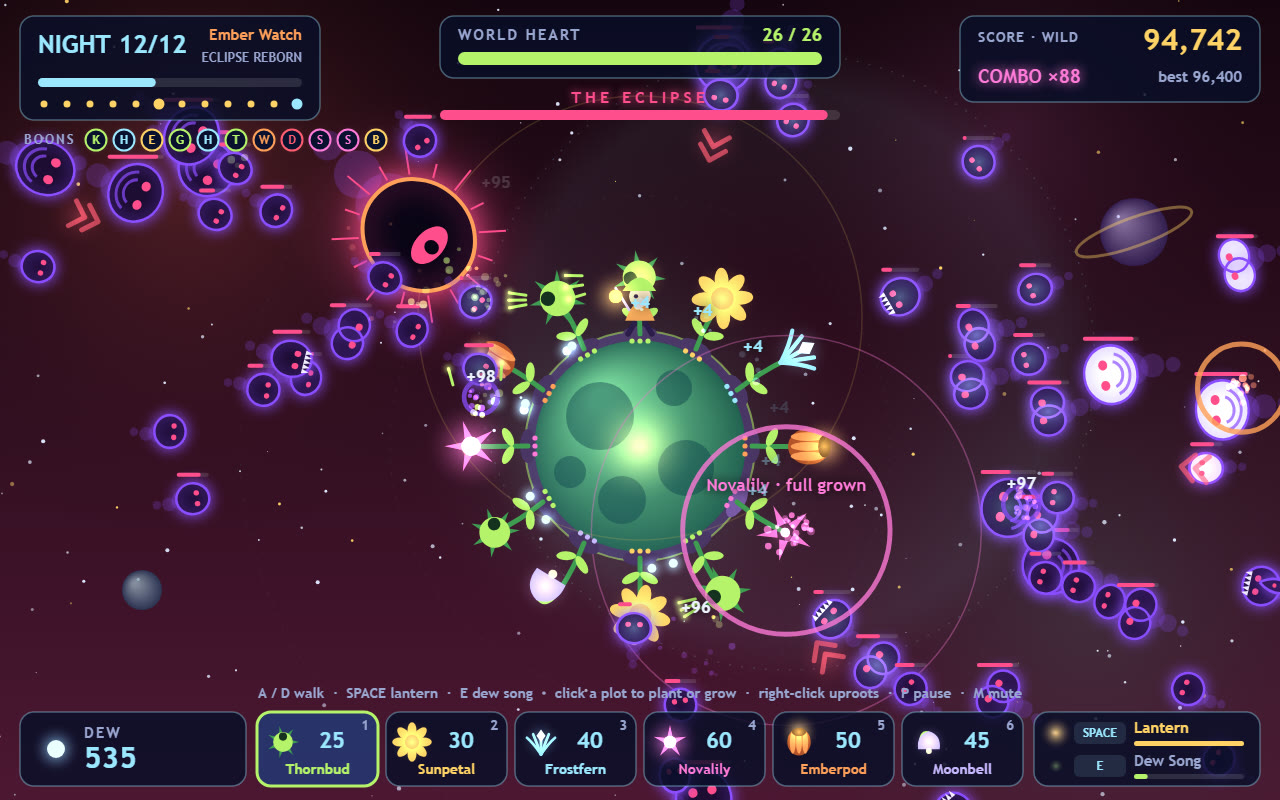
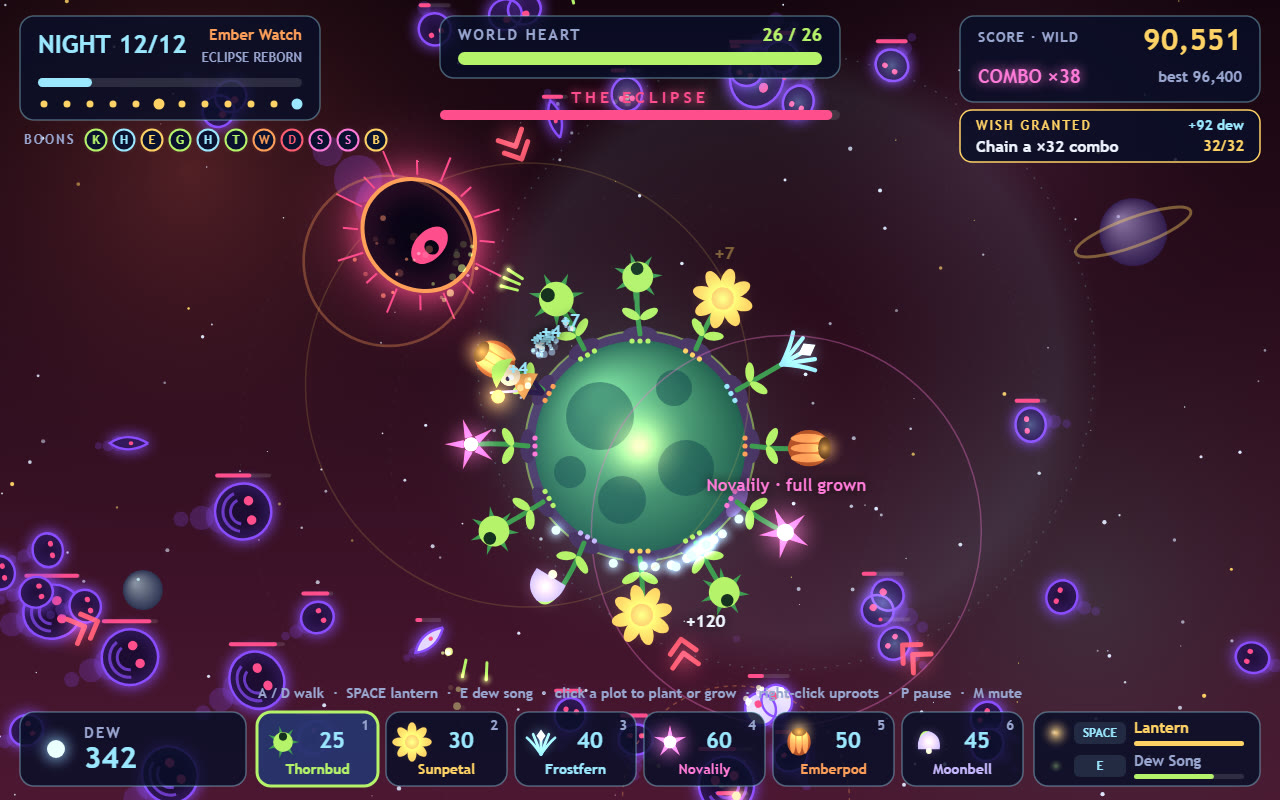
Nightly wishes, larger start and restart prompts, clearer cover, Frost Watch boon screen

diff --git a/game/src/render/screens.js b/game/src/render/screens.js
@@ -8,7 +8,7 @@ import { glowDot, panel, paragraph, write } from './brush.js';
 import { drawSeedIcon } from './garden.js';
 
 const MIDDLE = VIEW.width / 2;
-const BOON_CARD = { width: 300, height: 290, gap: 36, y: 262 };
+const BOON_CARD = { width: 320, height: 290, gap: 30, y: 262 };
 
 function veil(ctx, strength) {
   ctx.fillStyle = `rgba(5, 7, 24, ${strength})`;
@@ -68,11 +68,12 @@ export function drawTitle(ctx, game) {
     write(ctx, seed.blurb, 950, y + 12, { size: 14, color: COLORS.ink });
   });
 
-  const pulse = 0.85 + 0.15 * Math.sin(game.time * 4);
-  panel(ctx, MIDDLE - 250, 684, 500, 58, { fill: 'rgba(54, 40, 12, 0.94)', edge: COLORS.gold, radius: 29, line: 2.5 });
-  write(ctx, 'CLICK or press ENTER to begin', MIDDLE, 714, { size: 26, weight: 800, align: 'center', color: COLORS.gold, alpha: pulse, glow: COLORS.gold });
+  // The start prompt is drawn big enough to read even when the screen is shown small.
+  const pulse = 0.88 + 0.12 * Math.sin(game.time * 4);
+  panel(ctx, MIDDLE - 350, 664, 700, 88, { fill: 'rgba(54, 40, 12, 0.96)', edge: COLORS.gold, radius: 44, line: 4 });
+  write(ctx, 'PRESS ENTER TO START', MIDDLE, 710, { size: 52, weight: 800, align: 'center', color: COLORS.gold, alpha: pulse, glow: COLORS.gold, spacing: 3 });
   const best = game.best > 0 ? `   ·   best garden ${game.best.toLocaleString('en-US')}` : '';
-  write(ctx, `${game.difficulty.name}: ${game.difficulty.lore}   ·   ← → or click to change${best}`, MIDDLE, 768, { size: 16, align: 'center', color: COLORS.dim });
+  write(ctx, `or click anywhere   ·   ${game.difficulty.name}: ${game.difficulty.lore}   ·   ← → change${best}`, MIDDLE, 776, { size: 16, align: 'center', color: COLORS.dim });
 }
 
 // The three difficulty pills on the title screen, as clickable boxes.
@@ -91,8 +92,9 @@ export function boonCardRects() {
 
 export function drawBoonChoice(ctx, game, pointer) {
   veil(ctx, 0.62);
-  write(ctx, `NIGHT ${game.night} SURVIVED`, MIDDLE, 118, { size: 54, weight: 800, align: 'center', color: COLORS.gold, spacing: 6, glow: 'rgba(255, 209, 102, 0.7)' });
-  write(ctx, `+${game.night * 100} points  ·  the garden offers a boon — choose one`, MIDDLE, 178, { size: 24, align: 'center', color: COLORS.ink });
+  write(ctx, `NIGHT ${game.night} SURVIVED`, MIDDLE, 104, { size: 72, weight: 800, align: 'center', color: COLORS.gold, spacing: 6, glow: 'rgba(255, 209, 102, 0.7)' });
+  write(ctx, 'CHOOSE A BOON', MIDDLE, 176, { size: 44, weight: 800, align: 'center', color: COLORS.ink, spacing: 8 });
+  write(ctx, `+${Math.round(game.night * 100 * game.difficulty.score)} points for the night  ·  the garden offers three gifts, keep one`, MIDDLE, 226, { size: 19, align: 'center', color: COLORS.dim });
   for (const card of boonCardRects()) {
     const boon = game.boonChoices[card.index];
     if (!boon) continue;
@@ -107,8 +109,8 @@ export function drawBoonChoice(ctx, game, pointer) {
     ctx.arc(cx, top + 84, 30, 0, Math.PI * 2);
     ctx.fill();
     write(ctx, String(card.index + 1), cx, top + 86, { size: 32, weight: 800, align: 'center', color: tint });
-    write(ctx, boon.name, cx, top + 166, { size: 28, weight: 800, align: 'center', color: tint });
-    paragraph(ctx, boon.text, cx, top + 212, card.width - 48, { size: 19, color: COLORS.ink });
+    write(ctx, boon.name, cx, top + 164, { size: 34, weight: 800, align: 'center', color: tint });
+    paragraph(ctx, boon.text, cx, top + 212, card.width - 44, { size: 20, color: COLORS.ink });
   }
   write(ctx, 'Click a card, or press 1, 2 or 3', MIDDLE, 584, { size: 20, weight: 700, align: 'center', color: COLORS.dim });
   drawNightPath(ctx, game);
@@ -167,7 +169,7 @@ export function drawResults(ctx, game) {
   write(ctx, won ? `You held back the Gloam for all ${NIGHTS} nights. The garden lives!` : `The Gloam reached the world heart on night ${game.night} of ${NIGHTS}.`, MIDDLE, 178, { size: 24, align: 'center', color: COLORS.ink });
 
   panel(ctx, MIDDLE - 330, 222, 660, 372, { radius: 22, edge: tint, line: 2.5 });
-  write(ctx, 'FINAL SCORE', MIDDLE, 258, { size: 18, weight: 700, align: 'center', color: COLORS.dim, spacing: 4 });
+  write(ctx, 'FINAL SCORE', MIDDLE, 256, { size: 24, weight: 800, align: 'center', color: COLORS.dim, spacing: 5 });
   write(ctx, game.score.toLocaleString('en-US'), MIDDLE, 314, { size: 78, weight: 800, align: 'center', color: COLORS.gold, glow: 'rgba(255, 209, 102, 0.6)' });
   write(ctx, game.newBest ? '★ NEW BEST ★' : `best ${game.best.toLocaleString('en-US')}`, MIDDLE, 370, { size: 20, weight: 800, align: 'center', color: game.newBest ? COLORS.nova : COLORS.dim, spacing: 2 });
   write(ctx, `Rank: ${gardenerRank(game)}`, MIDDLE, 408, { size: 24, weight: 800, align: 'center', color: COLORS.leaf });
@@ -177,7 +179,7 @@ export function drawResults(ctx, game) {
     ['Gloam banished', String(game.stats.kills)],
     ['Seeds planted', String(game.stats.planted)],
     ['Dew gathered', String(game.stats.dewGathered)],
-    ['Boons taken', String(game.boons.taken.length)],
+    ['Boons · wishes', `${game.boons.taken.length} · ${game.stats.wishes}`],
     ['World heart', `${Math.ceil(game.health)} / ${game.maxHealth}`],
     ['Watch reached', watchOf(game.night).name],
     ['Difficulty', `${game.difficulty.name} ×${game.difficulty.score}`],
@@ -189,7 +191,8 @@ export function drawResults(ctx, game) {
     write(ctx, value, x + 270, y, { size: 21, weight: 800, align: 'right', color: COLORS.ink });
   });
 
-  const pulse = 0.85 + 0.15 * Math.sin(game.time * 4);
-  panel(ctx, MIDDLE - 290, 632, 580, 60, { fill: 'rgba(54, 40, 12, 0.94)', edge: COLORS.gold, radius: 30, line: 2.5 });
-  write(ctx, 'Press R or CLICK to plant a new garden', MIDDLE, 663, { size: 26, weight: 800, align: 'center', color: COLORS.gold, alpha: pulse, glow: COLORS.gold });
+  // The restart prompt, like the start prompt, is big enough to read at a glance.
+  const pulse = 0.88 + 0.12 * Math.sin(game.time * 4);
+  panel(ctx, MIDDLE - 360, 610, 720, 86, { fill: 'rgba(54, 40, 12, 0.96)', edge: COLORS.gold, radius: 43, line: 4 });
+  write(ctx, 'PRESS R TO PLAY AGAIN', MIDDLE, 655, { size: 50, weight: 800, align: 'center', color: COLORS.gold, alpha: pulse, glow: COLORS.gold, spacing: 3 });
 }

diff --git a/game/src/wishes.js b/game/src/wishes.js
@@ -1,0 +1,64 @@
+// Wishes: every night the garden makes one wish, an optional goal that pays dew and score when granted.
+
+import { COLORS, PLANET } from './config.js';
+import { pick } from './rng.js';
+import { floater, ring } from './effects.js';
+
+export const WISHES = [
+  {
+    id: 'combo', label: (goal) => `Chain a ×${goal} combo`,
+    goal: (night) => 8 + night * 2, progress: (game) => game.wish.bestCombo,
+  },
+  {
+    id: 'banish', label: (goal) => `Banish ${goal} Gloam tonight`,
+    goal: (night) => 10 + night * 5, progress: (game) => game.stats.kills - game.wish.killsAtDusk,
+  },
+  {
+    id: 'harvest', label: (goal) => `Gather ${goal} dew tonight`,
+    goal: (night) => 30 + night * 12, progress: (game) => game.stats.dewGathered - game.wish.dewAtDusk,
+  },
+  {
+    id: 'unharmed', label: () => 'Keep the world heart unharmed', atDawn: true,
+    goal: () => 1, progress: (game) => (game.wish.hurt ? 0 : 1),
+  },
+];
+
+export function makeWish(game) {
+  const kind = pick(WISHES);
+  const goal = kind.goal(game.night);
+  game.wish = {
+    kind, goal, text: kind.label(goal), reward: 20 + game.night * 6, granted: false, hurt: false,
+    bestCombo: 0, killsAtDusk: game.stats.kills, dewAtDusk: game.stats.dewGathered, heartBefore: game.health,
+  };
+}
+
+export function wishProgress(game) {
+  return Math.min(game.wish.goal, game.wish.kind.progress(game));
+}
+
+// Called every tick: keeps the wish's own tallies and grants it the moment its goal is met.
+export function updateWish(game) {
+  const wish = game.wish;
+  if (!wish) return;
+  wish.bestCombo = Math.max(wish.bestCombo, game.combo);
+  if (game.health < wish.heartBefore) wish.hurt = true;
+  wish.heartBefore = game.health;
+  if (!wish.granted && !wish.kind.atDawn && wishProgress(game) >= wish.goal) grantWish(game);
+}
+
+// Called when the night is survived: wishes about the whole night are settled here.
+export function settleWish(game) {
+  const wish = game.wish;
+  if (wish && !wish.granted && wish.kind.atDawn && wishProgress(game) >= wish.goal) grantWish(game);
+}
+
+function grantWish(game) {
+  const wish = game.wish;
+  wish.granted = true;
+  game.dew += wish.reward;
+  game.stats.wishes += 1;
+  game.score += Math.round(wish.reward * 10 * game.difficulty.score);
+  ring(game, PLANET.x, PLANET.y, 240, COLORS.gold, 0.9);
+  floater(game, PLANET.x, PLANET.y - PLANET.radius - 70, `Wish granted!  +${wish.reward} dew`, COLORS.gold);
+  game.sound('boon');
+}

diff --git a/game/src/render/hud.js b/game/src/render/hud.js
@@ -2,6 +2,7 @@
 
 import { BOSS_NIGHTS, COLORS, NIGHTS, PLANET, SEEDS, SEED_ORDER, VIEW, watchOf } from '../config.js';
 import { BOONS, boonTint } from '../boons.js';
+import { wishProgress } from '../wishes.js';
 import { SONG_COOLDOWN, pulseCooldown } from '../gardener.js';
 import { newThreat, nightName, nightProgress } from '../waves.js';
 import { bar, glowDot, panel, write } from './brush.js';
@@ -22,6 +23,7 @@ export function drawHud(ctx, game) {
   drawNightPanel(ctx, game);
   drawHeartPanel(ctx, game);
   drawScorePanel(ctx, game);
+  drawWishPanel(ctx, game);
   drawDewPanel(ctx, game);
   drawSeedBar(ctx, game);
   drawLanternPanel(ctx, game);
@@ -100,6 +102,18 @@ function drawScorePanel(ctx, game) {
   if (game.combo > 1) write(ctx, `COMBO ×${game.combo}`, 978, 78, { size: 19, weight: 800, color: COLORS.nova, glow: COLORS.nova });
   else write(ctx, 'chain kills for a combo', 978, 78, { size: 14, color: COLORS.dim });
   write(ctx, `best ${Math.max(game.best, game.score).toLocaleString('en-US')}`, 1242, 78, { size: 15, align: 'right', color: COLORS.dim });
+}
+
+// Tonight's wish sits under the score: what the garden asks for, how far along it is, and what it pays.
+function drawWishPanel(ctx, game) {
+  const wish = game.wish;
+  if (!wish) return;
+  const tint = wish.granted ? COLORS.gold : COLORS.nova;
+  panel(ctx, 960, 110, 300, 52, { edge: tint, radius: 12 });
+  write(ctx, wish.granted ? 'WISH GRANTED' : 'TONIGHT\'S WISH', 976, 126, { size: 13, weight: 800, color: tint, spacing: 2 });
+  write(ctx, `+${wish.reward} dew`, 1244, 126, { size: 14, weight: 800, align: 'right', color: COLORS.ice });
+  write(ctx, wish.text, 976, 147, { size: 16, weight: 700, color: COLORS.ink });
+  if (!wish.kind.atDawn) write(ctx, `${wishProgress(game)}/${wish.goal}`, 1244, 147, { size: 15, weight: 800, align: 'right', color: tint });
 }
 
 function drawDewPanel(ctx, game) {

diff --git a/game/src/shots.js b/game/src/shots.js
@@ -58,12 +58,13 @@ export function stageShot(game, shot) {
   }
   startRun(game);
   if (shot.name === 'boons') {
-    growGarden(game, GARDEN.slice(0, 7).map(([kind]) => [kind, 1]), ['keen', 'honeydew', 'lantern']);
-    game.night = 4;
+    // The end of the Frost Watch: eight nights survived, the Ember Watch ahead.
+    growGarden(game, GARDEN.map(([kind, level]) => [kind, Math.min(level, 2)]), ['keen', 'honeydew', 'lantern', 'thumb', 'hoarfrost', 'volley', 'roots']);
+    game.night = 8;
     game.dew = 64;
-    game.score = 6120;
-    game.health = 18;
-    game.stats = { kills: 96, planted: 7, dewGathered: 410, nights: 4 };
+    game.score = 41350;
+    game.health = 22;
+    game.stats = { kills: 486, planted: 15, dewGathered: 1920, nights: 8, wishes: 5 };
     rollBoons(game);
     return;
   }
@@ -73,7 +74,7 @@ export function stageShot(game, shot) {
     game.dew = 310;
     game.health = 21;
     game.score = 104250;
-    game.stats = { kills: 948, planted: 14, dewGathered: 3120, nights: 12 };
+    game.stats = { kills: 948, planted: 14, dewGathered: 3120, nights: 12, wishes: 9 };
     game.best = game.score;
     game.newBest = true;
     game.mode = 'won';
@@ -87,7 +88,7 @@ export function stageShot(game, shot) {
   game.score = night * night * 610 + 240;
   game.best = 96400;
   game.health = game.maxHealth - 5;
-  game.stats = { kills: night * 62, planted: 12 + night, dewGathered: night * 260, nights: night - 1 };
+  game.stats = { kills: night * 62, planted: 12 + night, dewGathered: night * 260, nights: night - 1, wishes: Math.floor(night * 0.7) };
   startNight(game, night);
   playFor(game, shot.seconds - 1.2);
   // Skip the Eclipse's long approach so the frame catches it bearing down on the garden.

diff --git a/game/src/simulation.js b/game/src/simulation.js
@@ -8,6 +8,7 @@ import { updateDew, updateGardener } from './gardener.js';
 import { updateEmbers, updatePlants, updateThorns } from './plants.js';
 import { startNight, updateWave } from './waves.js';
 import { rollBoons, takeBoon } from './boons.js';
+import { settleWish, updateWish } from './wishes.js';
 
 export function startRun(game) {
   resetRun(game);
@@ -26,6 +27,7 @@ export function stepGame(game, controls, dt) {
   updateEmbers(game, dt);
   updateEnemies(game, dt);
   updateDew(game, dt);
+  updateWish(game);
   updateEffects(game, dt);
   if (game.health <= 0) {
     finishRun(game, 'lost');
@@ -35,6 +37,7 @@ export function stepGame(game, controls, dt) {
 }
 
 function endNight(game) {
+  settleWish(game);
   game.stats.nights = game.night;
   game.score += Math.round(game.night * 100 * game.difficulty.score);
   if (game.night >= NIGHTS) {

diff --git a/game/src/waves.js b/game/src/waves.js
@@ -4,6 +4,7 @@ import { BOSS_NIGHTS, GLOAM, NIGHTS, TAU } from './config.js';
 import { pick, random, randomRange } from './rng.js';
 import { spawnEnemy } from './enemies.js';
 import { showBanner } from './state.js';
+import { makeWish } from './wishes.js';
 
 const NIGHT_NAMES = [
   'First Dusk', 'Whispering Dark', 'The Gnawing', 'Husk Fall', 'Twin Shades', 'THE ECLIPSE',
@@ -46,6 +47,7 @@ export function startNight(game, night) {
   const { queue, fronts } = buildNight(night);
   // fronts are kept so the HUD can warn where tonight's Gloam will come from.
   game.wave = { queue, fronts, clock: 0, total: queue.length, spawned: 0 };
+  makeWish(game);
   showBanner(game, `NIGHT ${night} OF ${NIGHTS}`, nightName(night));
   game.sound('night');
 }

diff --git a/game/src/state.js b/game/src/state.js
@@ -35,7 +35,8 @@ export function resetRun(game) {
     emberSplash: 1, bellMend: 0, volley: 0, comboWindow: 1, pulsePower: 0, taken: [],
   };
   game.boonChoices = [];
-  game.stats = { kills: 0, planted: 0, dewGathered: 0, nights: 0 };
+  game.stats = { kills: 0, planted: 0, dewGathered: 0, nights: 0, wishes: 0 };
+  game.wish = null;
   game.shake = 0;
   game.hurtFlash = 0;
   game.banner = { text: '', sub: '', timer: 0 };

diff --git a/game/src/render/scene.js b/game/src/render/scene.js
@@ -42,6 +42,6 @@ export function drawFrame(ctx, game, pointer) {
     ctx.fillStyle = COLORS.dim;
     ctx.font = "600 14px 'Trebuchet MS', sans-serif";
     ctx.textAlign = 'right';
-    ctx.fillText('sound off (M)', VIEW.width - 24, 124);
+    ctx.fillText('sound off (M)', VIEW.width - 24, 182);
   }
 }

diff --git a/README.md b/README.md
@@ -22,7 +22,7 @@
 | `←` / `→` on the title | Choose Gentle, Wild or Starless difficulty |
 | `P`, `M`, `R` | Pause, mute, restart |
 
-You win by surviving all twelve nights; you lose when the world heart runs out. The night passes through three watches (Dusk, Frost, Ember), each with its own sky and its own rule. Chain kills for a combo, and beat your best score.
+You win by surviving all twelve nights; you lose when the world heart runs out. The night passes through three watches (Dusk, Frost, Ember), each with its own sky and its own rule, and every night the garden makes a wish: an optional goal that pays dew and score. Chain kills for a combo, and beat your best score.
 
 ## Run it
 
@@ -39,7 +39,7 @@ mkdir -p out && MAKEFUN_OUTPUT_DIR=out node main.ts
 ## Layout
 
 - `game/src/config.js` tuning table · `state.js` the game object · `simulation.js` one tick of the rules
-- `plants.js`, `enemies.js`, `gardener.js`, `waves.js`, `boons.js` the rules, one job each
+- `plants.js`, `enemies.js`, `gardener.js`, `waves.js`, `boons.js`, `wishes.js` the rules, one job each
 - `autoplay.js`, `demo.js` the robot gardener behind the title screen · `shots.js` screenshot staging (`shots.json`)
 - `audio.js` synthesised sound and music · `input.js`, `storage.js`
 - `render/` sky, garden, creatures, sparks, HUD and screens
